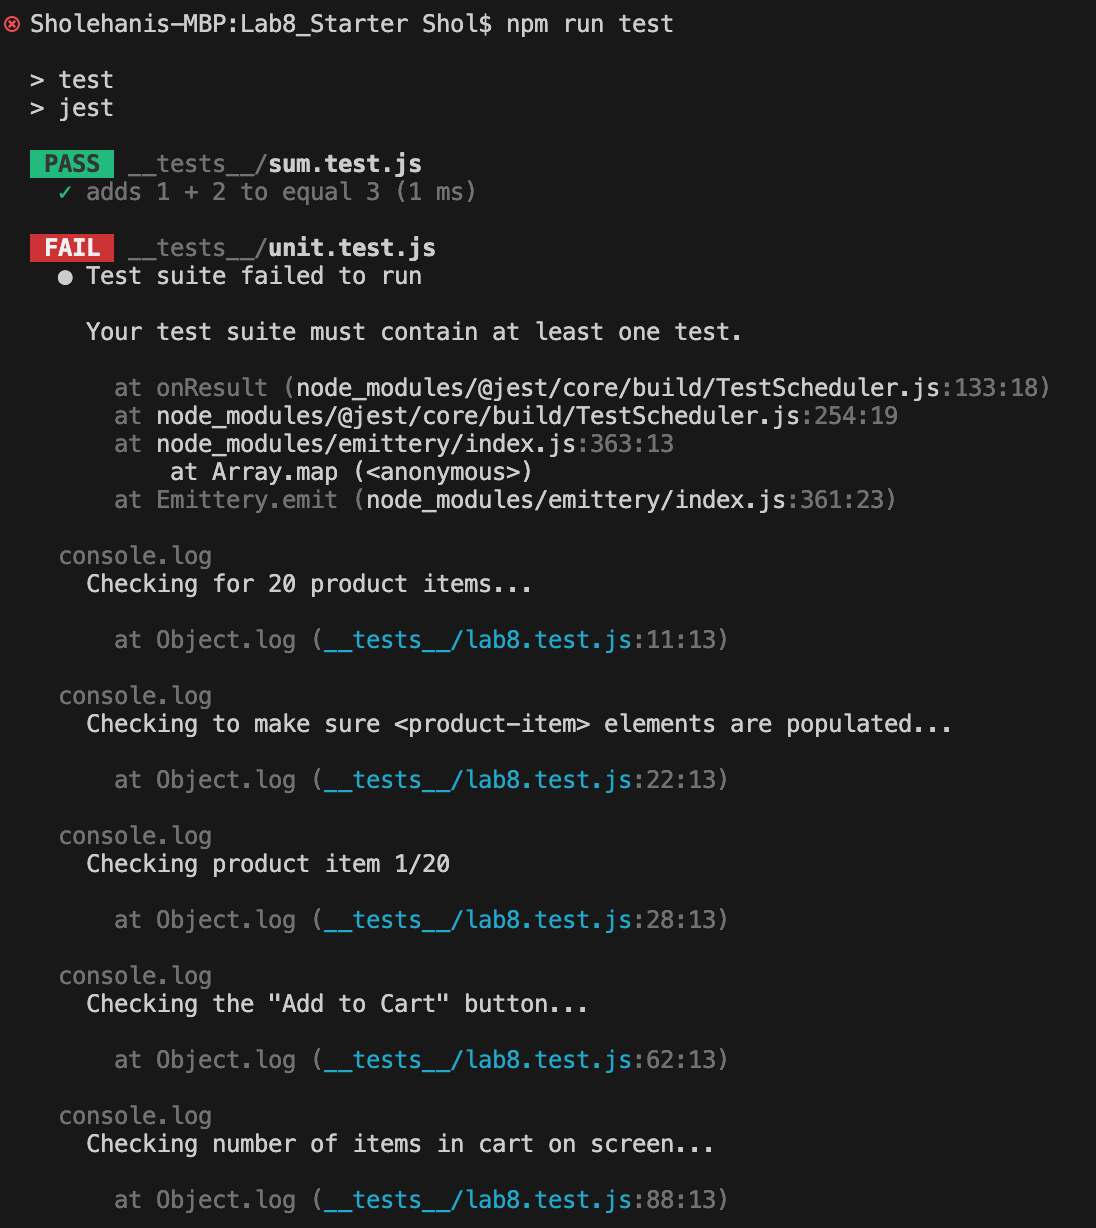
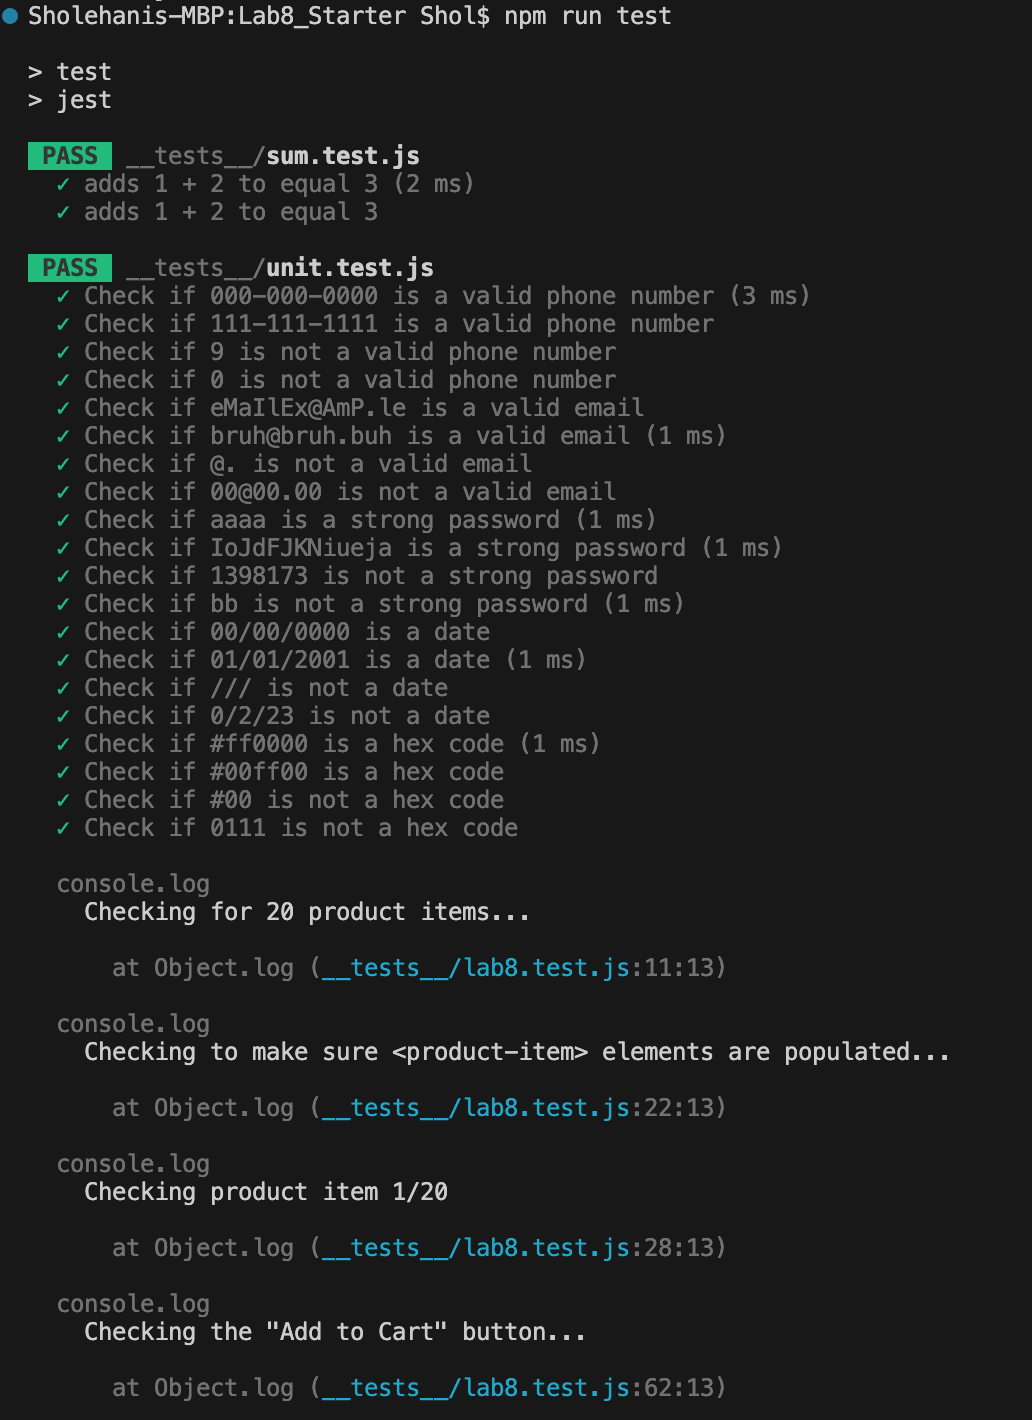
finished explore

diff --git a/__tests__/lab8.test.js b/__tests__/lab8.test.js
@@ -41,17 +41,17 @@ describe('Basic user flow for Website', () => {
     // Right now this function is only checking the first <product-item> it found, make it so that
     // it checks every <product-item> it found
 
-    for(let i = 0; i < prodItems.length; i++){
+    for (let i = 0; i < prodItems.length; i++) {
       // Grab the .data property of <product-items> to grab all of the json data stored inside
-    data = await prodItems[i].getProperty('data');
-    // Convert that property to JSON
-    plainValue = await data.jsonValue();
-    // Make sure the title, price, and image are populated in the JSON
-    if (plainValue.title.length == 0) { allArePopulated = false; }
-    if (plainValue.price.length == 0) { allArePopulated = false; }
-    if (plainValue.image.length == 0) { allArePopulated = false; }
-    // Expect allArePopulated to still be true
-    expect(allArePopulated).toBe(true);
+      data = await prodItems[i].getProperty('data');
+      // Convert that property to JSON
+      plainValue = await data.jsonValue();
+      // Make sure the title, price, and image are populated in the JSON
+      if (plainValue.title.length == 0) { allArePopulated = false; }
+      if (plainValue.price.length == 0) { allArePopulated = false; }
+      if (plainValue.image.length == 0) { allArePopulated = false; }
+      // Expect allArePopulated to still be true
+      expect(allArePopulated).toBe(true);
     }
     expect(allArePopulated).toBe(true);
   }, 10000);
@@ -74,12 +74,12 @@ describe('Basic user flow for Website', () => {
     const buttonText = await prodButton[0].getProperty('innerText');
     const buttonVal = await buttonText.jsonValue();
 
-    if(buttonVal != "Remove from Cart"){
+    if (buttonVal != "Remove from Cart") {
       isRemoved = false;
     }
 
     expect(isRemoved).toBe(true);
-    
+
   }, 2500);
 
   // Check to make sure that after clicking "Add to Cart" on every <product-item> that the Cart
@@ -94,26 +94,26 @@ describe('Basic user flow for Website', () => {
     let is20 = true;
     const prodItems = await page.$$('product-item');
 
-    for(let i = 0; i < prodItems.length; i++){
+    for (let i = 0; i < prodItems.length; i++) {
       let isRemoved = true;
-    const prodItems = await page.$$('product-item');
-    const prodShadow = await prodItems[i].getProperty('shadowRoot');
-    const prodButton = await prodShadow.$$("button");
-    const buttonText = await prodButton[0].getProperty('innerText');
-    const buttonVal = await buttonText.jsonValue();
+      const prodItems = await page.$$('product-item');
+      const prodShadow = await prodItems[i].getProperty('shadowRoot');
+      const prodButton = await prodShadow.$$("button");
+      const buttonText = await prodButton[0].getProperty('innerText');
+      const buttonVal = await buttonText.jsonValue();
 
-    if(buttonVal == "Add to Cart"){
-      await prodButton[0].click();
-    }
+      if (buttonVal == "Add to Cart") {
+        await prodButton[0].click();
+      }
     }
     const cartCount = await page.$$("#cart-count");
     const countText = await cartCount[0].getProperty('innerText');
     const countVal = await countText.jsonValue();
-      if(countVal != "20"){
-        is20 = false;
-      }
+    if (countVal != "20") {
+      is20 = false;
+    }
 
-      expect(is20).toBe(true);
+    expect(is20).toBe(true);
   }, 1000000);
 
   // Check to make sure that after you reload the page it remembers all of the items in your cart
@@ -131,31 +131,31 @@ describe('Basic user flow for Website', () => {
     let isRemoved = true;
     let is20 = true;
 
-    for(let i = 0; i < prodItems.length; i++){
+    for (let i = 0; i < prodItems.length; i++) {
       let isRemoved = true;
-    const prodItems = await page.$$('product-item');
-    const prodShadow = await prodItems[i].getProperty('shadowRoot');
-    const prodButton = await prodShadow.$$("button");
-    const buttonText = await prodButton[0].getProperty('innerText');
-    const buttonVal = await buttonText.jsonValue();
+      const prodItems = await page.$$('product-item');
+      const prodShadow = await prodItems[i].getProperty('shadowRoot');
+      const prodButton = await prodShadow.$$("button");
+      const buttonText = await prodButton[0].getProperty('innerText');
+      const buttonVal = await buttonText.jsonValue();
 
-    if(buttonVal != "Remove from Cart"){
-      isRemoved = false;
-    }
-    if(buttonVal == "Add to Cart"){
-      await prodButton[0].click();
-    }
-    expect(isRemoved).toBe(true);
+      if (buttonVal != "Remove from Cart") {
+        isRemoved = false;
+      }
+      if (buttonVal == "Add to Cart") {
+        await prodButton[0].click();
+      }
+      expect(isRemoved).toBe(true);
 
     }
-    
+
     const cartCount = await page.$$("#cart-count");
     const countText = await cartCount[0].getProperty('innerText');
     const countVal = await countText.jsonValue();
-      if(countVal != "20"){
-        is20 = false;
-      }
-      expect(is20).toBe(true);
+    if (countVal != "20") {
+      is20 = false;
+    }
+    expect(is20).toBe(true);
 
 
   }, 1000000);
@@ -167,15 +167,15 @@ describe('Basic user flow for Website', () => {
     // '[1,2,3,4,5,6,7,8,9,10,11,12,13,14,15,16,17,18,19,20]', check to make sure it is
     let isCorrect = true;
     const localVal = await page.evaluate(() => {
-      let data = localStorage.getItem('cart'); 
+      let data = localStorage.getItem('cart');
       return data;
-  })
-  
-  if(localVal != "[1,2,3,4,5,6,7,8,9,10,11,12,13,14,15,16,17,18,19,20]"){
-    isCorrect= false;
-  }
+    })
 
-  expect(isCorrect).toBe(true);
+    if (localVal != "[1,2,3,4,5,6,7,8,9,10,11,12,13,14,15,16,17,18,19,20]") {
+      isCorrect = false;
+    }
+
+    expect(isCorrect).toBe(true);
 
 
   });
@@ -191,25 +191,25 @@ describe('Basic user flow for Website', () => {
     let isZero = true;
     const prodItems = await page.$$('product-item');
 
-   for(let i = 0; i < prodItems.length; i++){
-    const prodItems = await page.$$('product-item');
-    const prodShadow = await prodItems[i].getProperty('shadowRoot');
-    const prodButton = await prodShadow.$$("button");
-    const buttonText = await prodButton[0].getProperty('innerText');
-    const buttonVal = await buttonText.jsonValue();
+    for (let i = 0; i < prodItems.length; i++) {
+      const prodItems = await page.$$('product-item');
+      const prodShadow = await prodItems[i].getProperty('shadowRoot');
+      const prodButton = await prodShadow.$$("button");
+      const buttonText = await prodButton[0].getProperty('innerText');
+      const buttonVal = await buttonText.jsonValue();
 
-    if(buttonVal == "Remove from Cart"){
-      await prodButton[0].click();
+      if (buttonVal == "Remove from Cart") {
+        await prodButton[0].click();
+      }
     }
-  }
 
     const cartCount = await page.$$("#cart-count");
     const countText = await cartCount[0].getProperty('innerText');
     const countVal = await countText.jsonValue();
-      if(countVal != "0"){
-        isZero = false;
-      }
-      expect(isZero).toBe(true);
+    if (countVal != "0") {
+      isZero = false;
+    }
+    expect(isZero).toBe(true);
   }, 1000000);
 
   // Checking to make sure that it remembers us removing everything from the cart
@@ -228,27 +228,27 @@ describe('Basic user flow for Website', () => {
     let isAdd = true;
     let isZero = true;
 
-    for(let i = 0; i < prodItems.length; i++){
+    for (let i = 0; i < prodItems.length; i++) {
       let isRemoved = true;
-    const prodItems = await page.$$('product-item');
-    const prodShadow = await prodItems[i].getProperty('shadowRoot');
-    const prodButton = await prodShadow.$$("button");
-    const buttonText = await prodButton[0].getProperty('innerText');
-    const buttonVal = await buttonText.jsonValue();
+      const prodItems = await page.$$('product-item');
+      const prodShadow = await prodItems[i].getProperty('shadowRoot');
+      const prodButton = await prodShadow.$$("button");
+      const buttonText = await prodButton[0].getProperty('innerText');
+      const buttonVal = await buttonText.jsonValue();
 
-    if(buttonVal != "Add to Cart"){
-      isAdd = false;
+      if (buttonVal != "Add to Cart") {
+        isAdd = false;
+      }
+      expect(isAdd).toBe(true);
     }
-    expect(isAdd).toBe(true);
-    }
-    
+
     const cartCount = await page.$$("#cart-count");
     const countText = await cartCount[0].getProperty('innerText');
     const countVal = await countText.jsonValue();
-      if(countVal != "0"){
-        isZero = false;
-      }
-      expect(isZero).toBe(true);
+    if (countVal != "0") {
+      isZero = false;
+    }
+    expect(isZero).toBe(true);
   }, 1000000);
 
   // Checking to make sure that localStorage for the cart is as we'd expect for the
@@ -260,14 +260,14 @@ describe('Basic user flow for Website', () => {
 
     let isCorrect = true;
     const localVal = await page.evaluate(() => {
-      let data = localStorage.getItem('cart'); 
+      let data = localStorage.getItem('cart');
       return data;
-  })
-  
-  if(localVal != "[]"){
-    isCorrect= false;
-  }
+    })
 
-  expect(isCorrect).toBe(true);
+    if (localVal != "[]") {
+      isCorrect = false;
+    }
+
+    expect(isCorrect).toBe(true);
   });
 });

diff --git a/__tests__/unit.test.js b/__tests__/unit.test.js
@@ -3,3 +3,87 @@
 const functions = require('../code-to-unit-test/unit-test-me.js');
 
 // TODO - Part 2
+
+// True tests for isPhoneNumber
+test('Check if 000-000-0000 is a valid phone number', () => {
+    expect(functions.isPhoneNumber("000-000-0000")).toBe(true);
+});
+test('Check if 111-111-1111 is a valid phone number', () => {
+    expect(functions.isPhoneNumber("111-111-1111")).toBe(true);
+});
+
+// False tests for isPhoneNumber
+test('Check if 9 is not a valid phone number', () => {
+    expect(!functions.isPhoneNumber("9")).toBe(true);
+});
+test('Check if 0 is not a valid phone number', () => {
+    expect(!functions.isPhoneNumber("0")).toBe(true);
+});
+
+
+// True tests for isEmail
+test('Check if eMaIlEx@AmP.le is a valid email', () => {
+    expect(functions.isEmail("eMaIlEx@AmP.le")).toBe(true);
+});
+test('Check if bruh@bruh.buh is a valid email', () => {
+    expect(functions.isEmail("bruh@bruh.buh")).toBe(true);
+});
+
+// False tests for isEmail
+test('Check if @. is not a valid email', () => {
+    expect(!functions.isEmail("@.")).toBe(true);
+});
+test('Check if 00@00.00 is not a valid email', () => {
+    expect(!functions.isEmail("00@00.00")).toBe(true);
+});
+
+
+// True tests for isStrongPassword
+test('Check if aaaa is a strong password', () => {
+    expect(functions.isStrongPassword("aaaa")).toBe(true);
+});
+test('Check if IoJdFJKNiueja is a strong password', () => {
+    expect(functions.isStrongPassword("IoJdFJKNiueja")).toBe(true);
+});
+
+// False tests for isStrongPassword
+test('Check if 1398173 is not a strong password', () => {
+    expect(!functions.isStrongPassword("1398173")).toBe(true);
+});
+test('Check if bb is not a strong password', () => {
+    expect(!functions.isStrongPassword("bb")).toBe(true);
+});
+
+
+// True tests for isDate
+test('Check if 00/00/0000 is a date', () => {
+    expect(functions.isDate("00/00/0000")).toBe(true);
+});
+test('Check if 01/01/2001 is a date', () => {
+    expect(functions.isDate("01/01/2001")).toBe(true);
+});
+
+// False tests for isDate
+test('Check if /// is not a date', () => {
+    expect(!functions.isDate("///")).toBe(true);
+});
+test('Check if 0/2/23 is not a date', () => {
+    expect(!functions.isDate("0/2/23")).toBe(true);
+});
+
+// True tests for isHexColor
+test('Check if #ff0000 is a hex code', () => {
+    expect(functions.isHexColor("#ff0000")).toBe(true);
+});
+test('Check if #00ff00 is a hex code', () => {
+    expect(functions.isHexColor("#00ff00")).toBe(true);
+});
+
+// False tests for isHexColor
+test('Check if #00 is not a hex code', () => {
+    expect(!functions.isHexColor("#00")).toBe(true);
+});
+test('Check if 0111 is not a hex code', () => {
+    expect(!functions.isHexColor("0111")).toBe(true);
+});
+

diff --git a/__tests__/sum.test.js b/__tests__/sum.test.js
@@ -2,7 +2,11 @@
 
 test('adds 1 + 2 to equal 3', () => {
   // TODO
-  let isThree = true;
-  let num = 1+2;
-  if(num != 3){ isThree = false; }
+  expect(1 + 2).toBe(3);
+});
+
+const sum = require('../code-to-unit-test/sum.js');
+
+test('adds 1 + 2 to equal 3', () => {
+  expect(sum(1,2)).toBe(3);
 });

diff --git a/README.md b/README.md
@@ -1,10 +1,13 @@
 # Lab 8 - Starter
 
-1. 1: To test with other components within repository and does not need to set up dependencies.
-2. no: End-to-end focuses on testing the entire project rather than a single function.
+## Names: Sholehani Hafezi
 
+1. 1: To automatically test with other components within repository and does not need to set up dependencies.
+2. no: End-to-end focuses on testing the entire project (all user actions from start to finish) rather than a single function.
+3. no: Testing user message involves many components, where their interactions can not be tested.
+4. yes: The max message length is a single component being tested at a small scale of only 80 characters.
 
 ## Screenshots:
 
-![test-result-1.png](/Users/Shol/Documents/GitHub/Lab8_Starter/screenshots/test-result-1.png)
-![test-result-2.png](/Users/Shol/Documents/GitHub/Lab8_Starter/screenshots/test-result-2.png)
+![test-result-1.png](screenshots/test-result-1.png)
+![test-result-2.png](screenshots/test-result-2.png)
